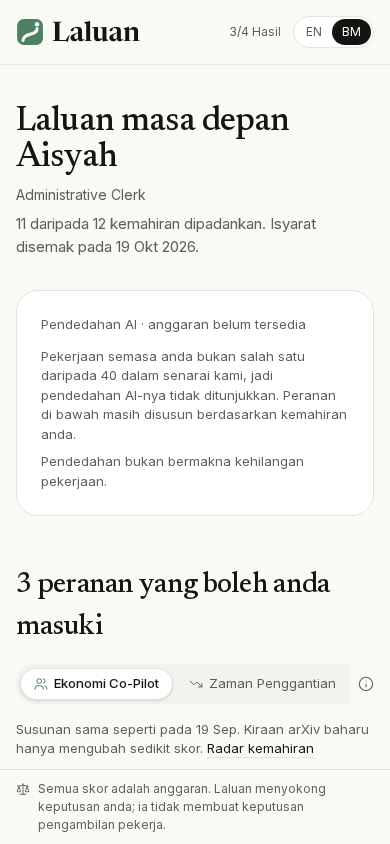
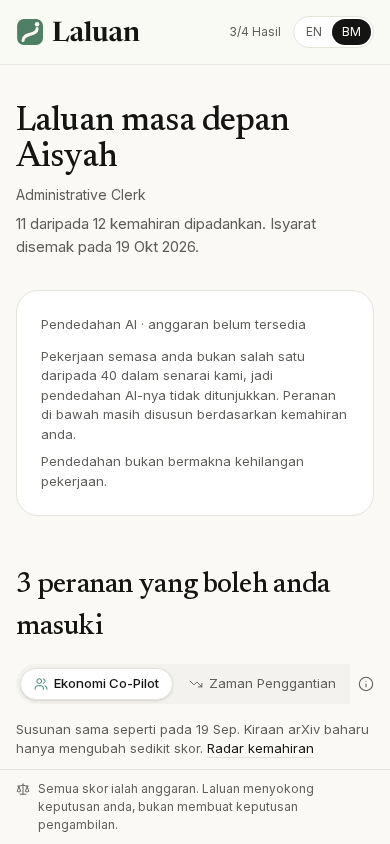
Shorter BM disclaimer bar text; refresh BM mobile results screenshots

Changed region(s): [[0.2769, 0.9242, 0.8308, 0.9858]]

diff --git a/src/lib/i18n-messages.ts b/src/lib/i18n-messages.ts
@@ -476,7 +476,7 @@ export const MS: Record<MessageKey, string> = {
   "radar.tooSmallItem": "{keyword} ({recent} berbanding {previous})",
   "radar.matchYourSkills": "Padankan kemahiran anda sendiri",
   "estimateFooter.disclaimer":
-    "Semua skor adalah anggaran. Laluan menyokong keputusan anda; ia tidak membuat keputusan pengambilan pekerja.",
+    "Semua skor ialah anggaran. Laluan menyokong keputusan anda, bukan membuat keputusan pengambilan.",
   "estimateFooter.publicData": "Data awam, profil sintetik",
   "refreshButton.label": "Muat semula",
   "roleCard.tier.direct": "Terus",
